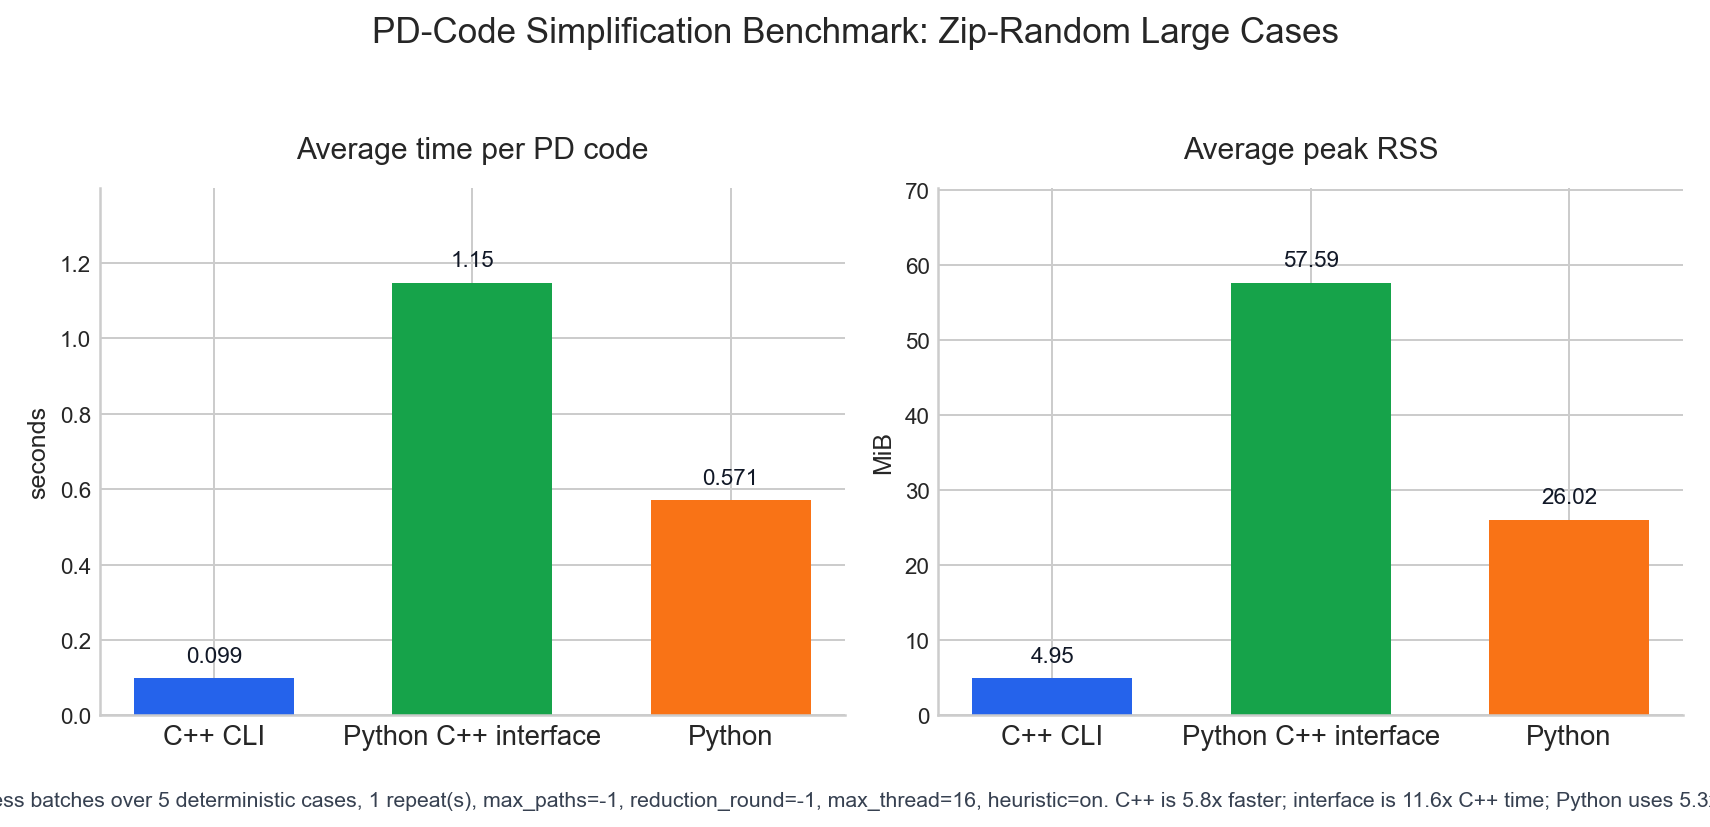
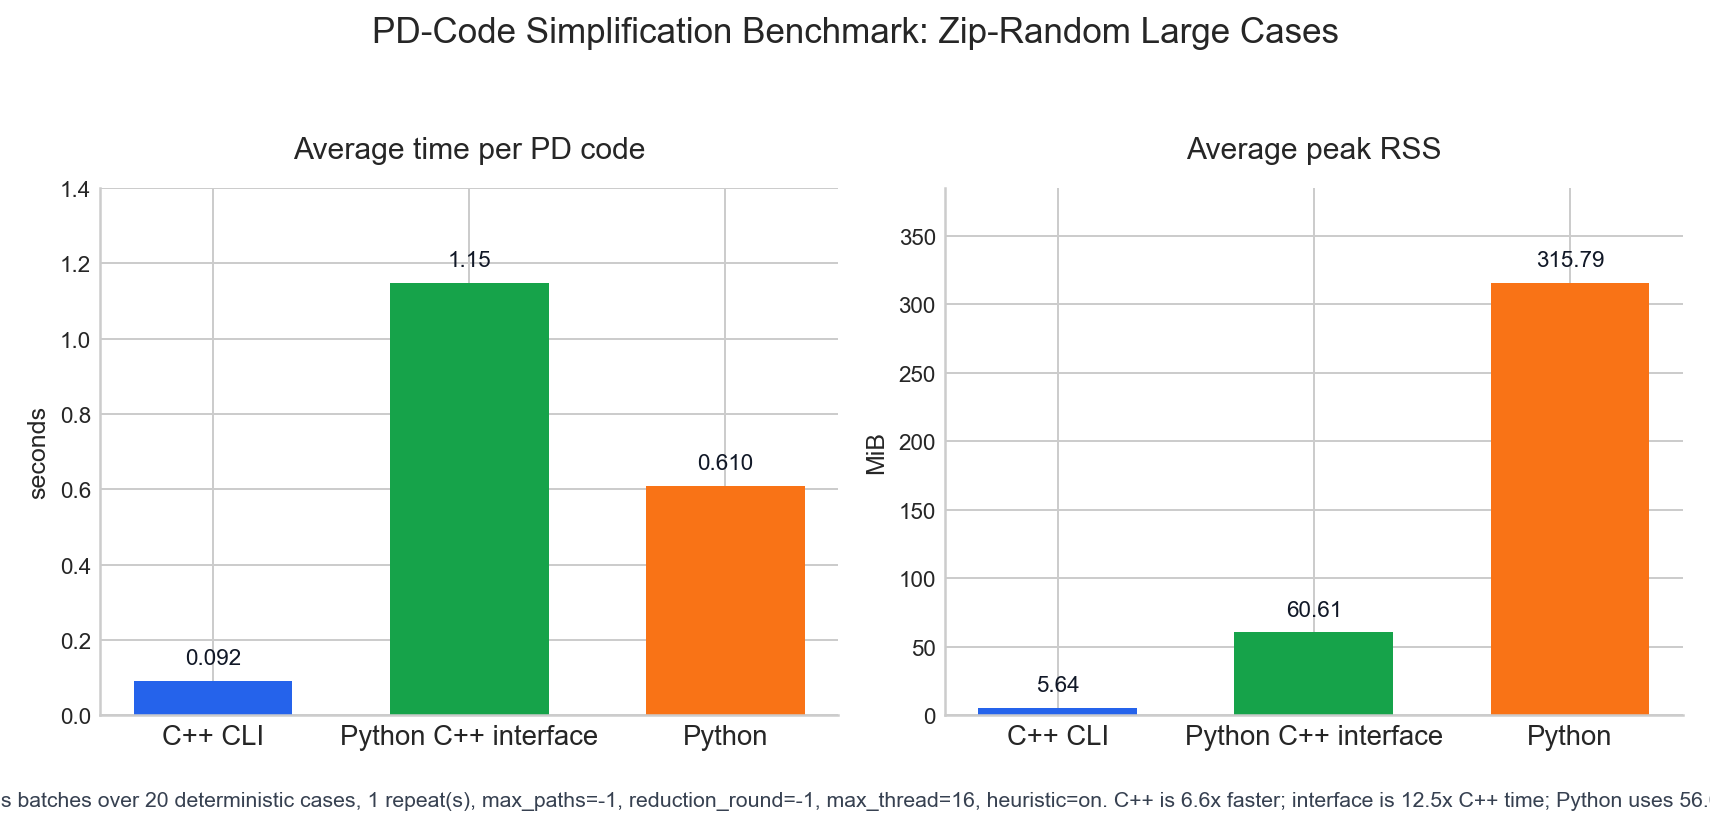
Expand zip-random benchmark to twenty cases

diff --git a/tools/benchmark_dataset.py b/tools/benchmark_dataset.py
@@ -8,7 +8,7 @@ laptop, but it still covers several input shapes:
 - a scalable T(2, n) torus-knot family,
 - diagrams inflated by deterministic reverse Reidemeister-I moves, and
 - the historical 31-crossing reference case used by this repository, and
-- the first five deterministic random samples extracted from a local PD-code
+- twenty deterministic random samples extracted from a local PD-code
   corpus fixture.
 """
 
@@ -43,7 +43,7 @@ X[60,17,61,18],X[59,38,60,39],X[58,47,59,48]
 ]"""
 
 RANDOM_FIXTURE = ROOT / "tests" / "benchmark_random_pd_codes.txt"
-RANDOM_BENCHMARK_LIMIT = 5
+RANDOM_BENCHMARK_LIMIT = 20
 
 
 @dataclass(frozen=True)

diff --git a/docs/benchmarking.md b/docs/benchmarking.md
@@ -30,15 +30,15 @@ The inflated cases preserve the underlying knot type because each added
 crossing is introduced by a reverse type-I Reidemeister move. The fixed seeds
 make the generated PD codes stable across platforms.
 
-Ten `zip_random_*` cases were sampled from the local
+Twenty `zip_random_*` cases were sampled from the local
 `tests/pd_code.zip` corpus supplied during development. The zip itself is
 ignored and is not committed. The committed fixture
 `tests/benchmark_random_pd_codes.txt` stores the sampled PD codes so the
 benchmark remains reproducible without the original archive. The sample uses
 seed `20260708` and source files with at most 150 crossings; the resulting
 cases span 120 to 150 crossings. The active large benchmark intentionally uses
-the first five stored `zip_random_*` cases so strict `--reduction-round -1`
-runs remain reproducible in a practical amount of time.
+the twenty stored `zip_random_*` cases. Runs use batch-mode input so process
+startup is paid once per engine rather than once per PD code.
 
 ## Running
 
@@ -105,8 +105,9 @@ the exact round where a run is spending time.
 
 Each measurement repeat writes the selected cases to one temporary multi-line
 PD-code file, then starts each engine once to process the whole file. The same
-run compares C++ CLI, Python C++ interface, and Python JSON outputs exactly.
-The chart reports average time per PD code and peak RSS for the whole batch.
+batch-mode run compares C++ CLI, Python C++ interface, and Python JSON outputs
+exactly. The chart reports average time per PD code and peak RSS for the whole
+batch.
 
 All three engines run the same default preprocessing pipeline before the
 mid-simplification search: R1-move removal, true R2-bigon removal, and
@@ -119,8 +120,8 @@ The committed charts were generated on the local Windows development machine
 with a local 64-bit MinGW `g++ -O3 -DNDEBUG` C++ executable. The original
 lightweight suite uses `max_paths=-1`, heuristic disabled, and
 `reduction_round=-1`. The zip-random suite uses `max_paths=-1`, heuristic
-enabled, `reduction_round=-1`, `max_thread=16`, and the first five active
-large cases. Each suite was measured with one repeat.
+enabled, `reduction_round=-1`, `max_thread=16`, and twenty active large cases.
+Each suite was measured with one repeat.
 
 Original lightweight suite:
 
@@ -138,9 +139,9 @@ Zip-random large-case suite:
 
 | Engine | Average Time Per PD Code (s) | Average Peak RSS (MiB) |
 | --- | ---: | ---: |
-| C++ CLI | 0.098539 | 4.949 |
-| Python C++ interface | 1.146772 | 57.586 |
-| Python | 0.570628 | 26.023 |
+| C++ CLI | 0.091932 | 5.637 |
+| Python C++ interface | 1.148408 | 60.605 |
+| Python | 0.610344 | 315.789 |
 
 Summary CSV files are stored in
 [`docs/assets/benchmark_original_summary.csv`](assets/benchmark_original_summary.csv)

diff --git a/README.md b/README.md
@@ -99,17 +99,17 @@ Zip-random large-case benchmark:
 
 | Engine | Avg Time / PD Code (s) | Peak RSS (MiB) |
 | --- | ---: | ---: |
-| C++ CLI | 0.098539 | 4.949 |
-| Python C++ interface | 1.146772 | 57.586 |
-| Python | 0.570628 | 26.023 |
+| C++ CLI | 0.091932 | 5.637 |
+| Python C++ interface | 1.148408 | 60.605 |
+| Python | 0.610344 | 315.789 |
 
 This local run uses the deterministic benchmark set documented in
 [Benchmarking](docs/benchmarking.md). The lightweight suite is measured with
 `--max-paths -1 --ban-heuristic --reduction-round -1 --max-thread 16`. The
-large zip-random throughput chart uses the first five active zip-random cases
+large zip-random throughput chart uses twenty active zip-random cases
 with `--max-paths -1 --reduction-round -1 --max-thread 16`; the benchmark
 checks C++ CLI, Python C++ interface, and Python outputs for exact JSON
-agreement in the same run that measures time and peak RSS.
+agreement in the same batch-mode run that measures time and peak RSS.
 
 ## Documentation
 

diff --git a/docs/python-cpp-comparison.md b/docs/python-cpp-comparison.md
@@ -27,7 +27,7 @@ true R2-bigon removal, then nugatory-crossing removal.
   --max-thread 16
 ```
 
-To compare the five active zip-random large cases with heuristic green-path
+To compare the twenty active zip-random large cases with heuristic green-path
 sampling and strict terminal stability:
 
 ```sh